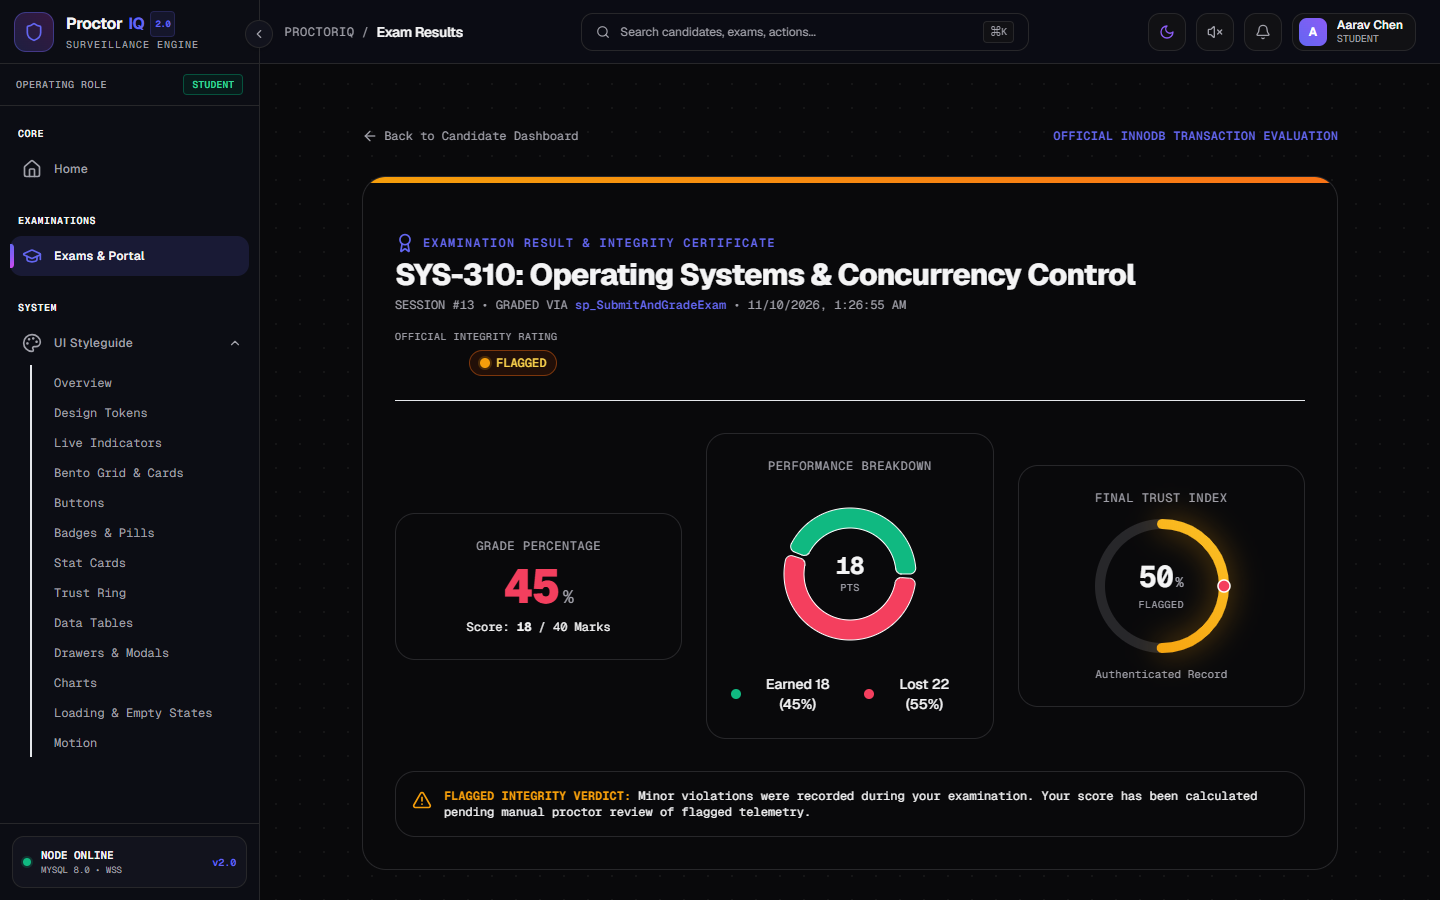
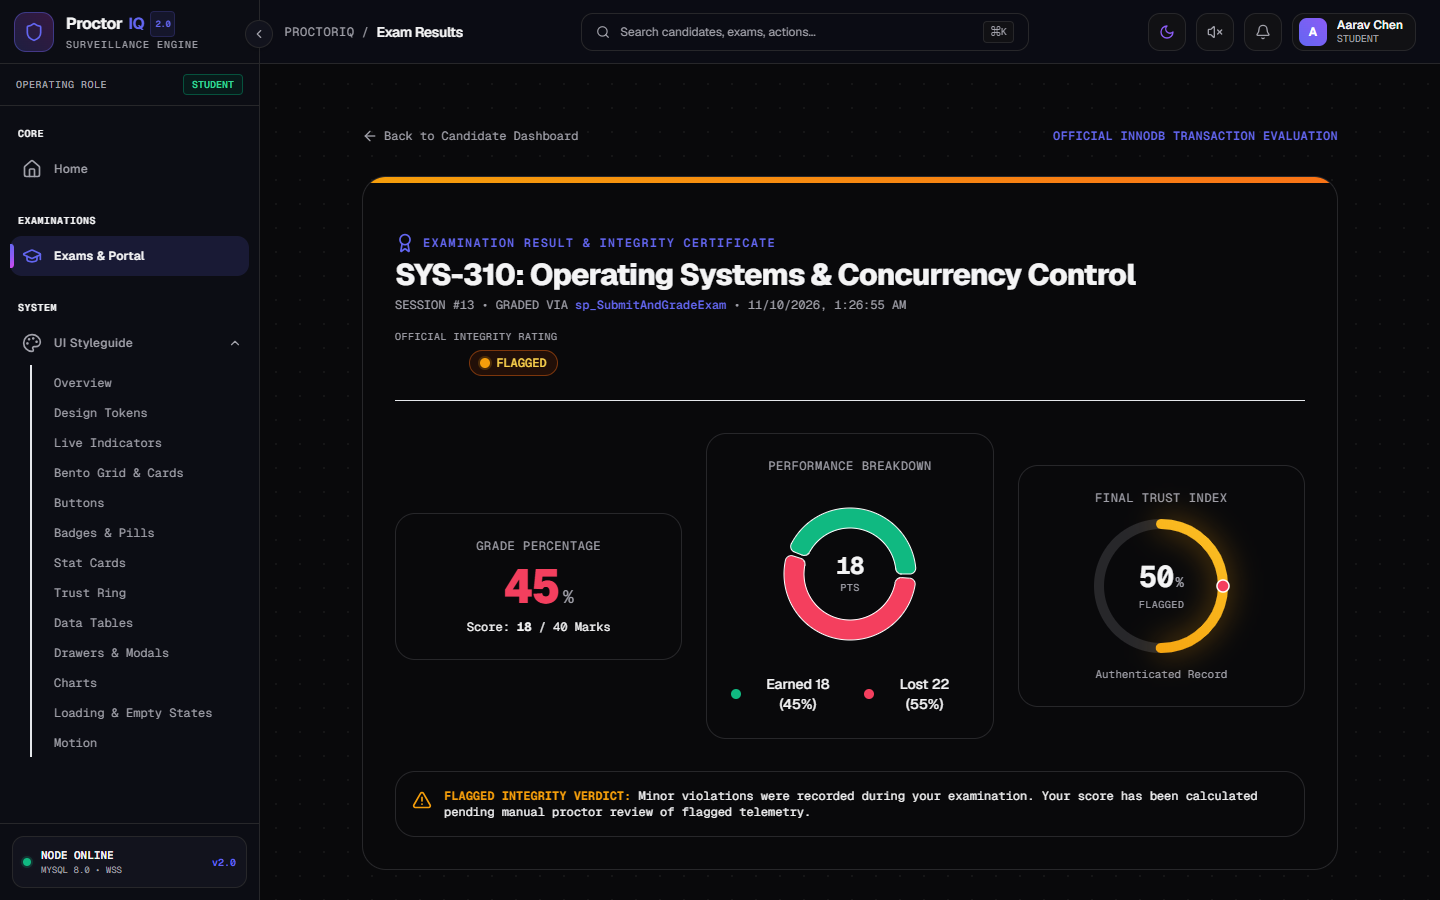
fix(charts): donut center hover and legend

diff --git a/client/src/components/admin/AdminOverviewDashboard.tsx b/client/src/components/admin/AdminOverviewDashboard.tsx
@@ -106,6 +106,7 @@ const DONUT_COLORS = [
 
 export function AdminOverviewDashboard() {
   const [daysWindow, setDaysWindow] = useState<number>(7);
+  const [hoveredDonutCode, setHoveredDonutCode] = useState<string | null>(null);
   const chartTheme = useChartTheme();
 
   const query = useQuery({
@@ -141,6 +142,14 @@ export function AdminOverviewDashboard() {
   }
 
   const data = query.data;
+  const violationDistribution = data?.violationDistribution ?? [];
+  const totalAlerts = violationDistribution.reduce((acc, v) => acc + Number(v.count || 0), 0);
+  const activeDonutItem = hoveredDonutCode
+    ? violationDistribution.find((v) => v.code === hoveredDonutCode) || null
+    : null;
+  const activePercent = activeDonutItem && totalAlerts > 0
+    ? Math.round((Number(activeDonutItem.count || 0) / totalAlerts) * 100)
+    : 0;
   const kpis = data?.kpis ?? {
     totalExams: 4,
     totalStudents: 60,
@@ -333,96 +342,152 @@ export function AdminOverviewDashboard() {
             </p>
           </div>
 
-          <div className="h-52 w-full relative">
+          <div className="h-56 w-full relative">
             <ResponsiveContainer width="100%" height="100%">
               <PieChart>
                 <Pie
                   data={
-                    (data?.violationDistribution?.length ?? 0) === 0
+                    totalAlerts === 0
                       ? [{ code: 'NO_DATA', label: 'No data', count: 1, isPlaceholder: true }]
-                      : data?.violationDistribution
+                      : violationDistribution
                   }
                   dataKey="count"
                   nameKey="code"
                   cx="50%"
                   cy="50%"
-                  innerRadius={50}
-                  outerRadius={75}
-                  paddingAngle={(data?.violationDistribution?.length ?? 0) === 0 ? 0 : 3}
-                  cornerRadius={(data?.violationDistribution?.length ?? 0) === 0 ? 0 : 6}
+                  innerRadius={56}
+                  outerRadius={80}
+                  paddingAngle={totalAlerts === 0 ? 0 : 3}
+                  cornerRadius={totalAlerts === 0 ? 0 : 6}
+                  onMouseEnter={(entry: unknown) => {
+                    const code = (entry as { code?: string })?.code;
+                    if (code && code !== 'NO_DATA') {
+                      setHoveredDonutCode(code);
+                    }
+                  }}
+                  onMouseLeave={() => setHoveredDonutCode(null)}
                 >
-                  {(data?.violationDistribution ?? []).map((_, idx) => (
-                    <Cell
-                      key={`cell-${idx}`}
-                      fill={DONUT_COLORS[idx % DONUT_COLORS.length]}
-                    />
-                  ))}
-                  {(data?.violationDistribution?.length ?? 0) === 0 && (
-                    <Cell fill="#3f3f46" />
-                  )}
-                </Pie>
-                <Tooltip
-                  {...chartTheme.tooltipProps}
-                  offset={20}
-                  content={({ active, payload }) => {
-                    if (active && payload && payload.length) {
-                      const item = payload[0].payload;
-                      if (item.isPlaceholder) return null;
-                      const total = (data?.violationDistribution ?? []).reduce((acc, v) => acc + Number(v.count || 0), 0);
-                      const pct = total > 0 ? Math.round((Number(item.count || 0) / total) * 100) : 0;
-                      const colorIndex = (data?.violationDistribution ?? []).indexOf(item);
-                      const swatch = item.fill || DONUT_COLORS[(colorIndex >= 0 ? colorIndex : 0) % DONUT_COLORS.length];
+                  {totalAlerts === 0 ? (
+                    <Cell fill={chartTheme.isDark ? '#27272a' : '#e4e4e7'} stroke="none" />
+                  ) : (
+                    violationDistribution.map((item, idx) => {
+                      const isHovered = hoveredDonutCode === item.code;
+                      const isAnyHovered = hoveredDonutCode !== null;
                       return (
-                        <ChartTooltip
-                          active={active}
-                          title={item.label}
-                          payload={[
-                            {
-                              name: 'Incidents Logged',
-                              value: item.count,
-                              color: swatch,
-                              payload: { percent: pct },
-                            },
-                          ]}
-                          showPercent
+                        <Cell
+                          key={`cell-${item.code || idx}`}
+                          fill={DONUT_COLORS[idx % DONUT_COLORS.length]}
+                          opacity={isAnyHovered ? (isHovered ? 1 : 0.4) : 1}
+                          stroke={isHovered ? (chartTheme.isDark ? '#ffffff' : '#09090b') : 'none'}
+                          strokeWidth={isHovered ? 2 : 0}
+                          className="transition-all duration-150 cursor-pointer focus:outline-none"
+                          tabIndex={0}
+                          aria-label={`${item.label}: ${item.count} alerts`}
+                          onMouseEnter={() => setHoveredDonutCode(item.code)}
+                          onMouseLeave={() => setHoveredDonutCode(null)}
+                          onFocus={() => setHoveredDonutCode(item.code)}
+                          onBlur={() => setHoveredDonutCode(null)}
                         />
                       );
-                    }
-                    return null;
-                  }}
-                />
+                    })
+                  )}
+                </Pie>
               </PieChart>
             </ResponsiveContainer>
-            <div className="absolute inset-0 flex flex-col items-center justify-center pointer-events-none select-none">
-              <span className="text-xl font-bold font-mono tracking-tight tabular-nums text-foreground">
-                {(data?.violationDistribution ?? []).reduce((acc, v) => acc + Number(v.count || 0), 0)}
-              </span>
-              <span className="text-[9px] font-mono uppercase tracking-wider text-muted-foreground">
-                ALERTS
-              </span>
+
+            {/* Interactive Center Hole Label */}
+            <div
+              className="absolute inset-0 flex flex-col items-center justify-center pointer-events-none select-none px-2"
+              aria-live="polite"
+            >
+              <div className="w-[104px] max-w-[104px] text-center flex flex-col items-center justify-center overflow-hidden">
+                {totalAlerts === 0 ? (
+                  <span className="text-xs font-semibold text-muted-foreground">
+                    No data
+                  </span>
+                ) : activeDonutItem ? (
+                  <>
+                    <span
+                      className="text-[11px] font-semibold text-foreground truncate w-full leading-tight text-center px-1"
+                      title={activeDonutItem.label}
+                    >
+                      {activeDonutItem.label}
+                    </span>
+                    <span className="text-xl font-bold font-mono tracking-tight tabular-nums text-foreground leading-tight mt-0.5">
+                      {activeDonutItem.count}
+                    </span>
+                    <span className="text-[10px] font-mono text-brand font-semibold leading-tight">
+                      {activePercent}%
+                    </span>
+                  </>
+                ) : (
+                  <>
+                    <span className="text-2xl font-bold font-mono tracking-tight tabular-nums text-foreground leading-none">
+                      {totalAlerts}
+                    </span>
+                    <span className="text-[9px] font-mono uppercase tracking-wider text-muted-foreground mt-1">
+                      ALERTS
+                    </span>
+                  </>
+                )}
+              </div>
             </div>
           </div>
 
-          <div className="space-y-2 text-sm font-sans max-h-32 overflow-y-auto scrollbar-thin">
-            {(data?.violationDistribution ?? []).map((item, idx) => {
-              const total = (data?.violationDistribution ?? []).reduce((acc, v) => acc + Number(v.count || 0), 0);
-              const pct = total > 0 ? Math.round((Number(item.count || 0) / total) * 100) : 0;
-              return (
-                <div key={item.code} className="flex items-center justify-between text-muted-foreground hover:text-foreground transition-colors">
-                  <div className="flex items-center gap-2 truncate">
-                    <span
-                      className="w-3 h-3 rounded-full shrink-0"
-                      style={{ backgroundColor: DONUT_COLORS[idx % DONUT_COLORS.length] }}
-                    />
-                    <span className="truncate text-foreground font-medium text-sm">{item.label}</span>
-                  </div>
-                  <span className="font-mono text-xs text-muted-foreground pl-2 shrink-0">
-                    <strong className="text-foreground">{item.count}</strong> ({pct}%)
-                  </span>
-                </div>
-              );
-            })}
-          </div>
+          {/* Interactive Legend: No scrollbar, all rows, 2 columns on wide / 1 on narrow, keyboard focusable */}
+          {violationDistribution.length === 0 ? (
+            <div className="pt-3 border-t border-border/50 text-center py-2 text-xs text-muted-foreground">
+              No violations recorded
+            </div>
+          ) : (
+            <div
+              role="list"
+              aria-label="Violation categories breakdown"
+              className="grid grid-cols-1 sm:grid-cols-2 lg:grid-cols-1 xl:grid-cols-2 gap-1.5 pt-3 border-t border-border/50 text-sm font-sans"
+            >
+              {violationDistribution.map((item, idx) => {
+                const pct = totalAlerts > 0 ? Math.round((Number(item.count || 0) / totalAlerts) * 100) : 0;
+                const isSelected = hoveredDonutCode === item.code;
+                const isAnySelected = hoveredDonutCode !== null;
+                return (
+                  <button
+                    key={item.code}
+                    type="button"
+                    tabIndex={0}
+                    onMouseEnter={() => setHoveredDonutCode(item.code)}
+                    onMouseLeave={() => setHoveredDonutCode(null)}
+                    onFocus={() => setHoveredDonutCode(item.code)}
+                    onBlur={() => setHoveredDonutCode(null)}
+                    className={`flex items-center justify-between gap-1.5 p-1.5 rounded-lg text-left transition-all cursor-pointer focus:outline-none focus:ring-1 focus:ring-brand ${
+                      isSelected
+                        ? 'bg-surface-elevated text-foreground shadow-sm ring-1 ring-border'
+                        : isAnySelected
+                          ? 'opacity-40 text-muted-foreground hover:opacity-80'
+                          : 'text-muted-foreground hover:text-foreground hover:bg-surface-elevated/40'
+                    }`}
+                    aria-label={`${item.label}: ${item.count} incidents, ${pct} percent`}
+                  >
+                    <div className="flex items-center gap-2 min-w-0 truncate">
+                      <span
+                        className="w-2.5 h-2.5 rounded-full shrink-0 transition-transform"
+                        style={{
+                          backgroundColor: DONUT_COLORS[idx % DONUT_COLORS.length],
+                          transform: isSelected ? 'scale(1.25)' : 'scale(1)',
+                        }}
+                      />
+                      <span className="truncate text-xs font-medium text-foreground">
+                        {item.label}
+                      </span>
+                    </div>
+                    <span className="font-mono text-[11px] shrink-0 pl-1">
+                      <strong className="text-foreground font-semibold">{item.count}</strong>{' '}
+                      <span className="text-muted-foreground">({pct}%)</span>
+                    </span>
+                  </button>
+                );
+              })}
+            </div>
+          )}
         </div>
       </div>
 

diff --git a/client/e2e/dataLoadingAndChartsAudit.spec.ts b/client/e2e/dataLoadingAndChartsAudit.spec.ts
@@ -55,9 +55,9 @@ test.describe('Phase 13: Donut Charts, Skeletons & Data Loading Verification (Sc
   });
 
   // --------------------------------------------------------------------------
-  // 2. Admin Donut Chart: Center Alerts Label and 14px Legend with %
+  // 2. Admin Donut Chart: Center Alerts Label, Interactive Hover/Focus, Legend
   // --------------------------------------------------------------------------
-  test('Admin dashboard renders violation donut chart with center alerts count and 14px legend with %', async ({ page }) => {
+  test('Admin dashboard renders violation donut chart with center alerts count and interactive legend', async ({ page }) => {
     await page.setViewportSize({ width: 1440, height: 900 });
     await loginAs(page, 'admin@proctoriq.io');
 
@@ -73,12 +73,73 @@ test.describe('Phase 13: Donut Charts, Skeletons & Data Loading Verification (Sc
     const alertsCaption = chartRegion.getByText('ALERTS', { exact: true });
     await expect(alertsCaption).toBeVisible();
 
-    // Verify Legend items have percentage
-    const legendPercent = chartRegion.locator('text=/\(\\d+%\)/').first();
+    // Verify Legend items have percentage and count
+    const legendPercent = chartRegion.locator('text=/\\(\\d+%\\)/').first();
     await expect(legendPercent).toBeVisible();
 
+    // Verify no scrollbar container on legend
+    const legendList = chartRegion.locator('[role="list"][aria-label="Violation categories breakdown"]');
+    await expect(legendList).toBeVisible();
+    await expect(legendList).not.toHaveClass(/overflow-y-auto/);
+
+    // Verify Legend button keyboard focus & hover changes center text
+    const firstLegendBtn = legendList.locator('button').first();
+    await expect(firstLegendBtn).toBeVisible();
+    const firstLabel = await firstLegendBtn.locator('span.truncate').innerText();
+
+    // Hover legend row -> center shows infraction name
+    await firstLegendBtn.hover();
+    await page.waitForTimeout(200);
+    await expect(chartRegion.getByText(firstLabel).first()).toBeVisible();
+    await expect(alertsCaption).not.toBeVisible();
+
+    // Mouse leave -> center restores default "ALERTS"
+    await page.mouse.move(0, 0);
+    await page.waitForTimeout(200);
+    await expect(alertsCaption).toBeVisible();
+
+    // Keyboard focus -> center updates again
+    await firstLegendBtn.focus();
+    await page.waitForTimeout(200);
+    await expect(chartRegion.getByText(firstLabel).first()).toBeVisible();
+    await expect(alertsCaption).not.toBeVisible();
+    await chartRegion.screenshot({
+      path: path.join(screenshotDir, 'admin-donut-chart-hover-active.png'),
+    });
+
+    // Blur -> center restores default "ALERTS"
+    await firstLegendBtn.blur();
+    await page.waitForTimeout(200);
+    await expect(alertsCaption).toBeVisible();
+
+    // Capture screenshot at 1440px
+    await chartRegion.scrollIntoViewIfNeeded();
+    await chartRegion.screenshot({
+      path: path.join(screenshotDir, 'admin-donut-chart-card-1440px.png'),
+    });
     await page.screenshot({
-      path: path.join(screenshotDir, 'admin-donut-chart-verified.png'),
+      path: path.join(screenshotDir, 'admin-donut-chart-1440px.png'),
+    });
+
+    // Verify at 1024px
+    await page.setViewportSize({ width: 1024, height: 768 });
+    await page.waitForTimeout(300);
+    await chartRegion.scrollIntoViewIfNeeded();
+    await expect(alertsCaption).toBeVisible();
+    await chartRegion.screenshot({
+      path: path.join(screenshotDir, 'admin-donut-chart-card-1024px.png'),
+    });
+
+    // Verify at 390px mobile
+    await page.setViewportSize({ width: 390, height: 844 });
+    await page.waitForTimeout(300);
+    await chartRegion.scrollIntoViewIfNeeded();
+    await expect(alertsCaption).toBeVisible();
+    await chartRegion.screenshot({
+      path: path.join(screenshotDir, 'admin-donut-chart-card-390px.png'),
+    });
+    await page.screenshot({
+      path: path.join(screenshotDir, 'admin-donut-chart-390px.png'),
     });
   });
 
